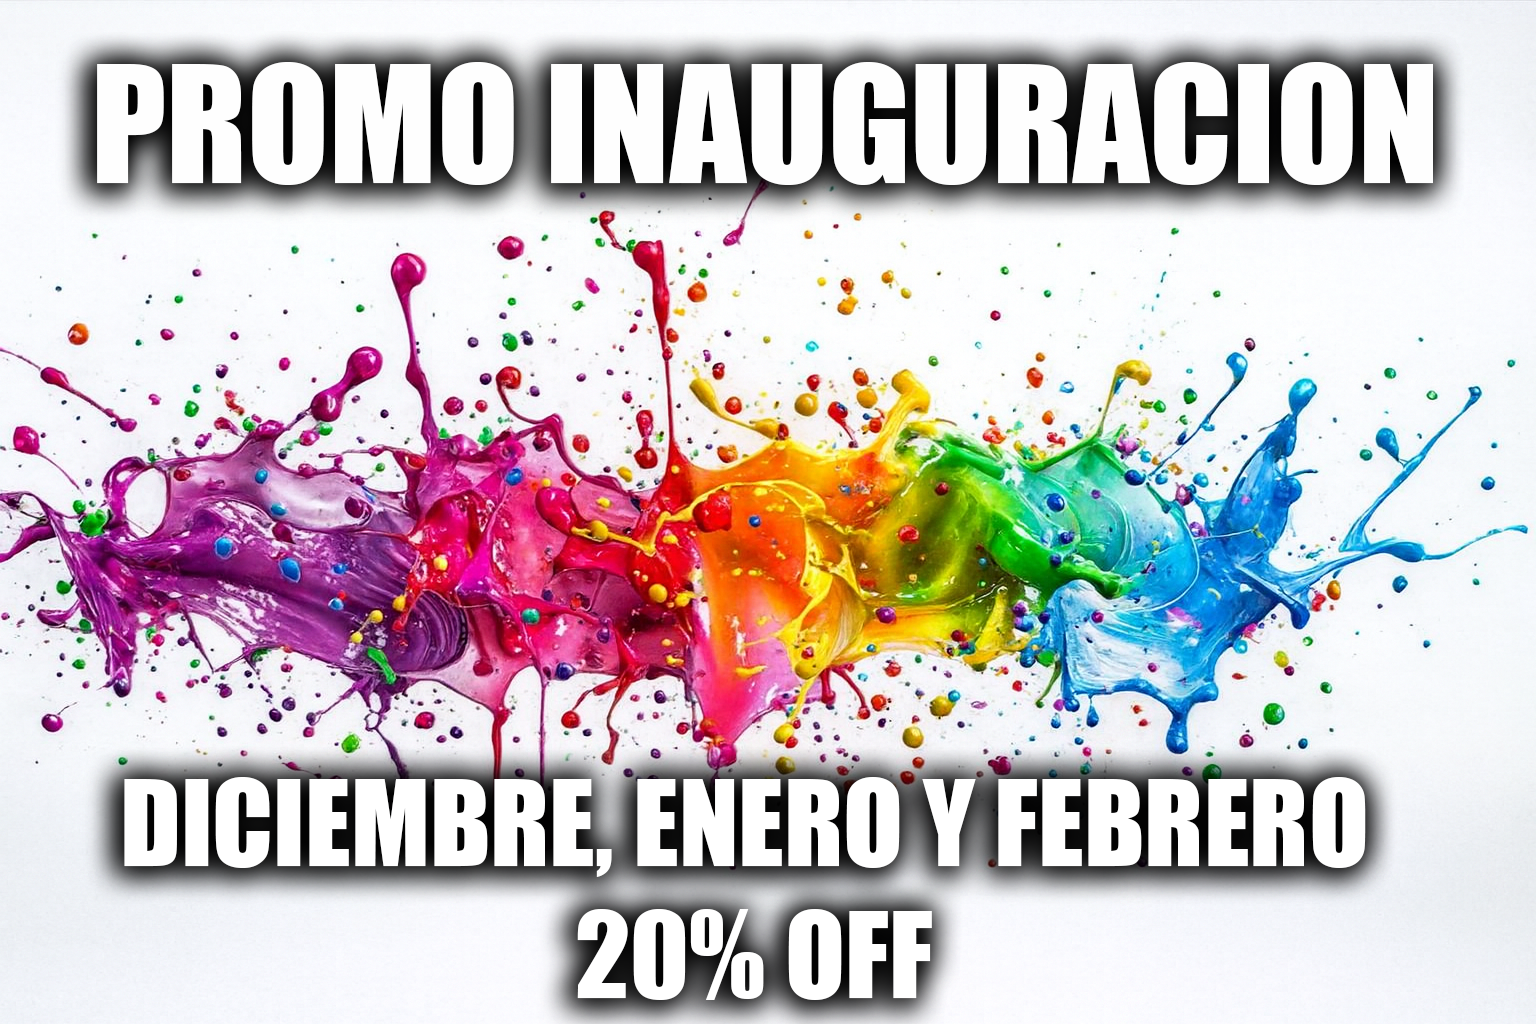
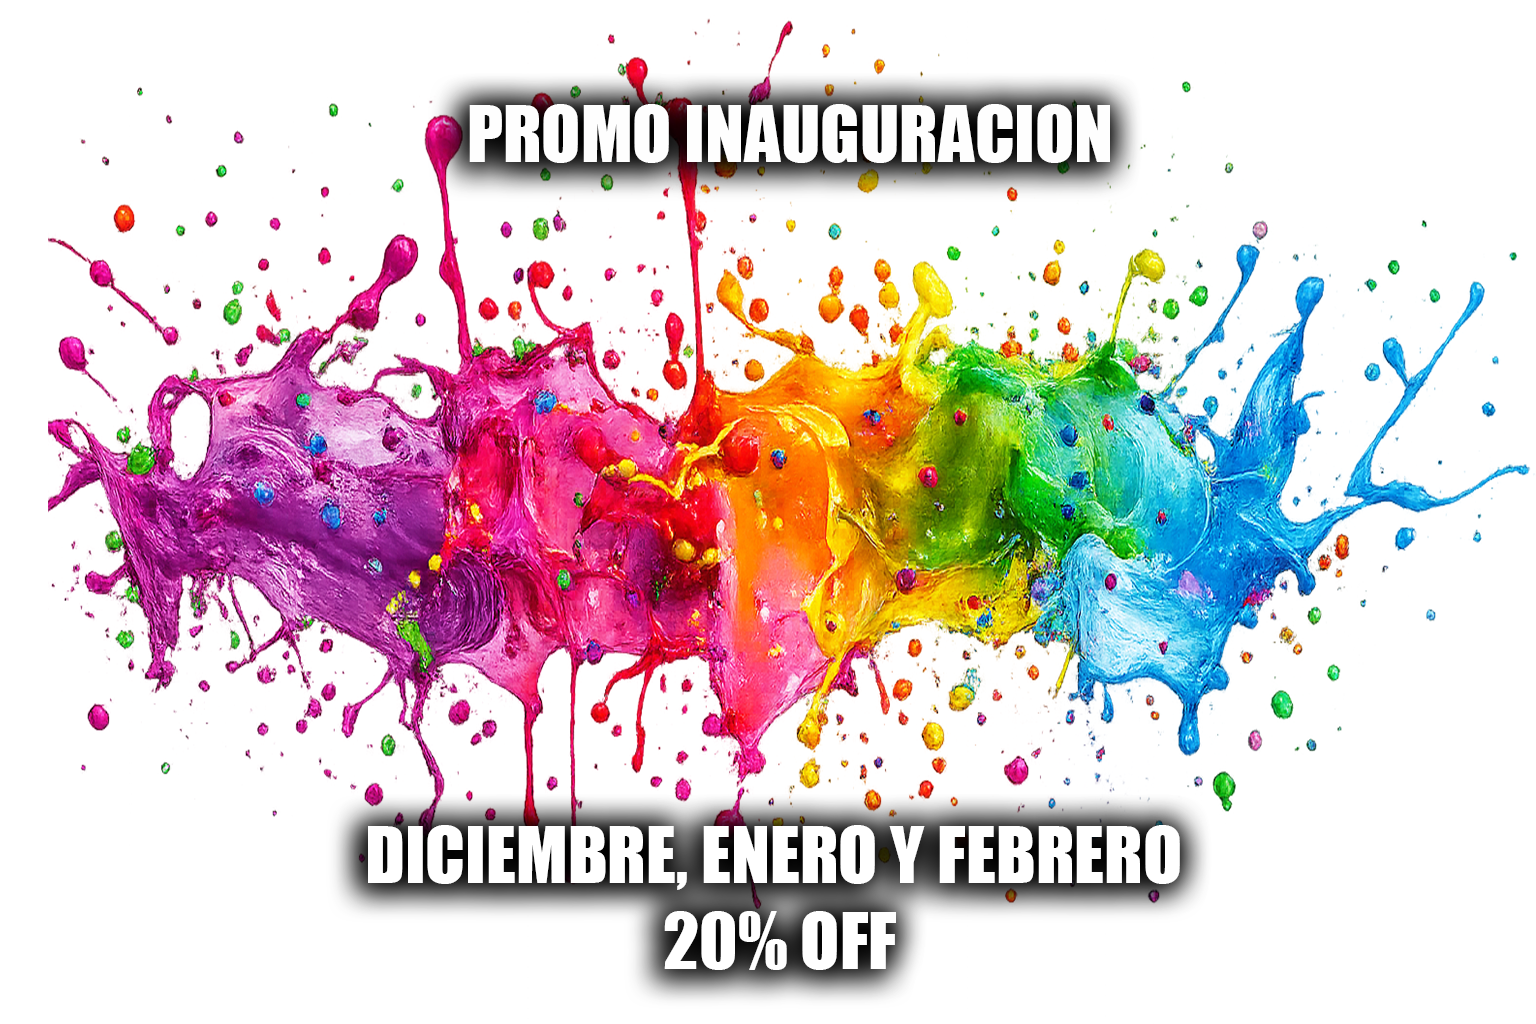
agrego nuevo pop_up

diff --git a/app/page.tsx b/app/page.tsx
@@ -2,7 +2,7 @@
 
 import { Button } from "@/components/ui/button"
 import { Card, CardContent } from "@/components/ui/card"
-import { Menu, X, MessageCircleMoreIcon,Phone, Mail, MapPin, Instagram, Facebook, ChevronDown } from 'lucide-react'
+import { Menu, X, MessageCircleMoreIcon, Phone, Mail, MapPin, Instagram, Facebook, ChevronDown } from 'lucide-react'
 import { useState, useEffect } from "react"
 import Link from "next/link"
 
@@ -129,7 +129,7 @@ export default function LotusEventos() {
       )}
       {promoOpen && (
         <div className="fixed inset-0 z-[60] flex items-center justify-center bg-black/60 backdrop-blur-sm p-4">
-          <div className="relative max-w-2xl w-full bg-white rounded-xl shadow-2xl overflow-hidden transition-transform duration-300 ease-out scale-100 flex flex-col max-h-[90vh]">
+          <div className="relative max-w-[95vw] w-auto bg-transparent rounded-xl overflow-hidden transition-transform duration-300 ease-out scale-100 flex flex-col max-h-[95vh]">
             <button
               className="absolute top-3 right-3 p-2 rounded-full bg-black/70 text-white hover:bg-black/80 transition-colors"
               aria-label="Cerrar promocion"
@@ -140,9 +140,9 @@ export default function LotusEventos() {
             <img
               src="/PromoInaguracion.png"
               alt="Promocion de inauguracion"
-              className="w-full h-full object-contain max-h-[70vh]"
+              className="w-full h-full object-contain max-h-[85vh]"
             />
-            <div className="w-full px-4 py-6 flex justify-center bg-white">
+            <div className="w-full px-4 py-6 flex justify-center bg-transparent">
               <Button
                 className="animate-bounce bg-white text-black hover:bg-white/90 shadow-lg"
                 onClick={() => openWhatsApp('Promo Inauguracion')}
@@ -171,7 +171,7 @@ export default function LotusEventos() {
             </ul>
 
             {/* Mobile Menu Button */}
-            <button 
+            <button
               className="md:hidden p-2"
               onClick={() => setMenuOpen(!menuOpen)}
             >
@@ -248,7 +248,7 @@ export default function LotusEventos() {
             {/* Features - Clean lines design */}
             <div className="grid md:grid-cols-3 gap-12 md:gap-16">
               <div className="text-center space-y-4">
-                
+
                 <h3 className="text-xl font-bold">Atención Personalizada</h3>
                 <p className="text-muted-foreground leading-relaxed">
                   Te acompañamos antes y durante el evento, para que todo salga como vos necesitás.
@@ -256,7 +256,7 @@ export default function LotusEventos() {
               </div>
 
               <div className="text-center space-y-4">
-                
+
                 <h3 className="text-xl font-bold">Catering</h3>
                 <p className="text-muted-foreground leading-relaxed">
                   Contamos con un servicio de comidas y bebidas con propuestas que se amoldan a tus posibilidades.
@@ -264,7 +264,7 @@ export default function LotusEventos() {
               </div>
 
               <div className="text-center space-y-4">
-                
+
                 <h3 className="text-xl font-bold">Luces</h3>
                 <p className="text-muted-foreground leading-relaxed">
                   Trabajamos con la última tecnología en iluminación para tu evento.
@@ -285,7 +285,7 @@ export default function LotusEventos() {
         </div>
 
         <div className="space-y-0">
-          
+
           {/* Cumpleaños Infantiles - Image Left, Content Right */}
           <div className="grid lg:grid-cols-2 min-h-[600px]">
             <div className="relative min-h-[400px] lg:min-h-full">
@@ -474,12 +474,12 @@ export default function LotusEventos() {
       </section>
 
       {/* CTA Section */}
-      <section 
+      <section
         id="cta-section"
         className="py-24 relative overflow-hidden"
         style={{ backgroundColor: '#f5f5f5' }}
       >
-        <div 
+        <div
           className="absolute inset-0 bg-[url('/abstract-elegant-pattern.jpg')] bg-cover bg-center opacity-5"
         />
         <div className="container mx-auto px-4 relative z-10">
@@ -545,7 +545,7 @@ export default function LotusEventos() {
           </div>
 
           <div className="grid lg:grid-cols-2 gap-12 max-w-6xl mx-auto">
-            
+
             {/* Formulario */}
             <Card>
               <CardContent className="p-8">
@@ -559,7 +559,7 @@ export default function LotusEventos() {
                       placeholder="Tu nombre"
                     />
                   </div>
-                  
+
                   <div>
                     <label htmlFor="email" className="block text-sm font-medium mb-2">Email</label>
                     <input
@@ -569,7 +569,7 @@ export default function LotusEventos() {
                       placeholder="tu@email.com"
                     />
                   </div>
-                  
+
                   <div className="grid sm:grid-cols-2 gap-4">
                     <div>
                       <label htmlFor="phone" className="block text-sm font-medium mb-2">Teléfono</label>
@@ -580,7 +580,7 @@ export default function LotusEventos() {
                         placeholder="Tu teléfono"
                       />
                     </div>
-                    
+
                     <div>
                       <label htmlFor="evento" className="block text-sm font-medium mb-2">Tipo de Evento</label>
                       <select
@@ -598,7 +598,7 @@ export default function LotusEventos() {
                       </select>
                     </div>
                   </div>
-                  
+
                   <div>
                     <label htmlFor="message" className="block text-sm font-medium mb-2">Mensaje</label>
                     <textarea
@@ -608,7 +608,7 @@ export default function LotusEventos() {
                       placeholder="Contanos sobre tu evento..."
                     />
                   </div>
-                  
+
                   <Button type="submit" size="lg" className="w-full">
                     Enviar Consulta
                   </Button>
@@ -621,7 +621,7 @@ export default function LotusEventos() {
               <Card>
                 <CardContent className="p-8">
                   <h3 className="text-2xl font-bold mb-6">Información de Contacto</h3>
-                  
+
                   <div className="space-y-6">
                     <div className="flex items-start gap-4">
                       <div className="w-12 h-12 bg-primary/10 rounded-full flex items-center justify-center flex-shrink-0">
@@ -637,7 +637,7 @@ export default function LotusEventos() {
                         </a>
                       </div>
                     </div>
-                    
+
                     <div className="flex items-start gap-4">
                       <div className="w-12 h-12 bg-primary/10 rounded-full flex items-center justify-center flex-shrink-0">
                         <Phone className="w-6 h-6 text-primary" />
@@ -650,7 +650,7 @@ export default function LotusEventos() {
                         </a>
                       </div>
                     </div>
-                    
+
                     <div className="flex items-start gap-4">
                       <div className="w-12 h-12 bg-primary/10 rounded-full flex items-center justify-center flex-shrink-0">
                         <Mail className="w-6 h-6 text-primary" />
@@ -658,15 +658,15 @@ export default function LotusEventos() {
                       <div>
                         <h4 className="font-semibold mb-1">Email</h4>
                         <a
-                            href="mailto:lotuseventoslp@gmail.com" target="_blank"
-                            className="text-muted-foreground hover:text-primary transition-smooth"
-                          >
-                            lotuseventoslp@gmail.com
-                          </a>
+                          href="mailto:lotuseventoslp@gmail.com" target="_blank"
+                          className="text-muted-foreground hover:text-primary transition-smooth"
+                        >
+                          lotuseventoslp@gmail.com
+                        </a>
                       </div>
                     </div>
                   </div>
-                  
+
                   <div className="mt-8 pt-8 border-t border-neutral-200">
                     <h4 className="font-semibold mb-4">Seguinos en Redes</h4>
                     <div className="flex gap-4">
@@ -682,7 +682,7 @@ export default function LotusEventos() {
                 </CardContent>
               </Card>
 
-              
+
             </div>
           </div>
         </div>
@@ -698,7 +698,7 @@ export default function LotusEventos() {
                 Tu espacio para eventos inolvidables en el centro de La Plata.
               </p>
             </div>
-            
+
             <div>
               <h4 className="font-semibold mb-4 text-input">Enlaces Rápidos</h4>
               <ul className="space-y-2 text-muted-foreground">
@@ -708,7 +708,7 @@ export default function LotusEventos() {
                 <li><button onClick={() => scrollToSection('contacto')} className="hover:text-primary transition-colors">Contacto</button></li>
               </ul>
             </div>
-            
+
             <div>
               <h4 className="font-semibold mb-4 text-input">Contacto</h4>
               <ul className="space-y-2 text-muted-foreground">
@@ -718,7 +718,7 @@ export default function LotusEventos() {
               </ul>
             </div>
           </div>
-          
+
           <div className="pt-8 border-t border-neutral-200 text-center text-muted-foreground">
             <p>© 2025 LOTUS Eventos. Todos los derechos reservados.</p>
           </div>
